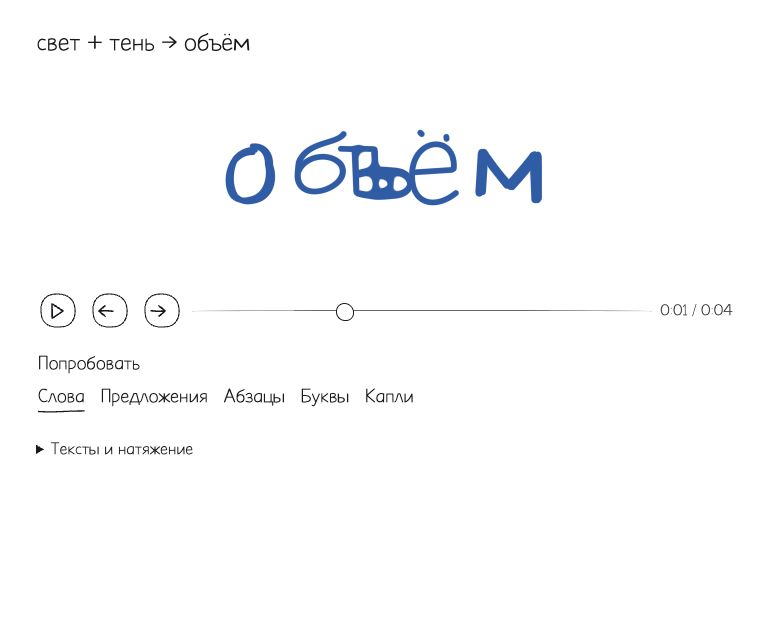
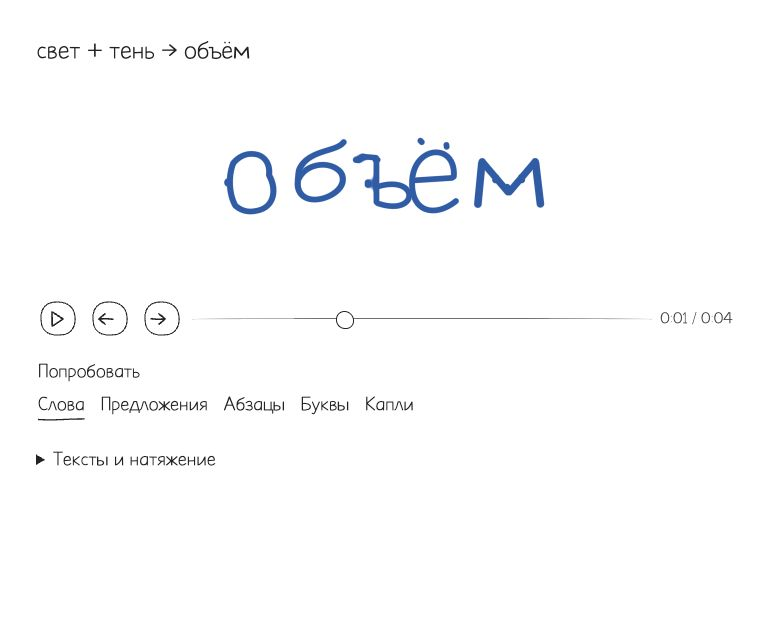
fix(ink): merge surplus strokes into a single contour

diff --git a/src/ink/fusion/transport.ts b/src/ink/fusion/transport.ts
@@ -5,6 +5,8 @@ export interface InkRoute {
   source: 0 | 1;
   target: number;
   origin: number;
+  /** Surplus ink joins this sample of the target's sole owning stroke. */
+  attachment?: number;
   text?: {
     from: readonly [number, number];
     glyph: number;
@@ -184,13 +186,16 @@ export function inkRoutes(
     } while (j0);
   }
   const pairs: [number, number][] = [];
+  const owners = new Map<number, number>();
   for (let j = 1; j <= m; j++) {
     let i = p[j]! - 1;
     if (i < 0) {
       i = 0;
       for (let k = 1; k < n; k++) if (price(k, j - 1) < price(i, j - 1)) i = k;
     }
-    pairs.push(transpose ? [i, j - 1] : [j - 1, i]);
+    const pair: [number, number] = transpose ? [i, j - 1] : [j - 1, i];
+    pairs.push(pair);
+    if (transpose || p[j]) owners.set(pair[1], pair[0]);
   }
   // When one original supplies several final strokes, divide its arc length.
   // Reusing the whole path would sprout duplicate loops before they could settle.
@@ -250,6 +255,26 @@ export function inkRoutes(
   return pairs.map(([i, j]) => {
     const b = resample(target[j]!, counts[j]!),
       a = align(b, resample(pieces.get(`${i}:${j}`)!, counts[j]!));
+    if (owners.get(j) !== i) {
+      // A second complete target would produce a displaced copy of the letter.
+      // Feed surplus ink into the nearest point of the one owning contour.
+      const c = center(a);
+      let attachment = 0;
+      for (let k = 1; k < b.length; k++)
+        if (
+          Math.hypot(b[k]![0] - c[0], b[k]![1] - c[1]) <
+          Math.hypot(b[attachment]![0] - c[0], b[attachment]![1] - c[1])
+        )
+          attachment = k;
+      return {
+        source: source[i]!.source,
+        origin: i,
+        target: j,
+        attachment,
+        from: a,
+        to: b.map(() => b[attachment]!),
+      };
+    }
     return { source: source[i]!.source, origin: i, target: j, from: a, to: b };
   });
 }

diff --git a/src/ink/fusion/motion.ts b/src/ink/fusion/motion.ts
@@ -82,8 +82,7 @@ export function inkMotion(routes: InkRoute[]) {
   const compiled = [...groups.values()].map((group) => {
     const text = group[0]!.text,
       n = group[0]!.from.length;
-    const preferred = group.filter((r) => r.text?.same);
-    const selected = preferred.length ? preferred : group;
+    const selected = group.filter((r) => r.attachment === undefined);
     const common = new Float64Array(n * 6),
       current = new Float64Array(n * 2);
     for (let i = 0; i < n; i++) {
@@ -115,7 +114,6 @@ export function inkMotion(routes: InkRoute[]) {
       n,
       text,
       word: text ? wordCarriers.get(text.word)! : undefined,
-      to: group[0]!.to,
     };
   });
   patches.push(...patchMap.values());
@@ -175,16 +173,17 @@ export function inkMotion(routes: InkRoute[]) {
           at = offset;
         for (let i = 0; i < group.n; i++) {
           const a = route.from[i]!,
-            b = group.to[i]!;
+            b = route.to[i]!,
+            commonIndex = (route.attachment ?? i) * 2;
           const px =
             dx +
             own * (x(p, a[0], a[1]) + p.x) +
-            shared * group.current[i * 2]! +
+            shared * group.current[commonIndex]! +
             s * (x(destination, b[0], b[1]) + destination.x);
           const py =
             dy +
             own * (y(p, a[0], a[1]) + p.y) +
-            shared * group.current[i * 2 + 1]! +
+            shared * group.current[commonIndex + 1]! +
             s * (y(destination, b[0], b[1]) + destination.y);
           const radius = a[2] * p.scale * (1 - s) + b[2] * destination.scale * s;
           if (i) {

diff --git a/tests/fusion.test.ts b/tests/fusion.test.ts
@@ -45,6 +45,13 @@ test('transport covers every original and final stroke without an intermediate s
       assert.equal(route.from.length, route.to.length);
       assert.ok([...route.from, ...route.to].flat().every(Number.isFinite));
     }
+    for (let target = 0; target < result.length; target++) {
+      const incoming = routes.filter((route) => route.target === target);
+      const owners = incoming.filter((route) => route.attachment === undefined);
+      assert.equal(owners.length, 1, 'A final stroke must have exactly one complete contour');
+      for (const donor of incoming.filter((route) => route.attachment !== undefined))
+        for (const point of donor.to) assert.deepEqual(point, owners[0]!.to[donor.attachment!]);
+    }
   }
 });
 

diff --git a/examples/ink-fusion/scene.js b/examples/ink-fusion/scene.js
@@ -17,7 +17,7 @@ window.galleryReady = (async () => {
   const equation = root.querySelector('.fusion-equation');
   const abort = new AbortController();
   const reduced = matchMedia('(prefers-reduced-motion: reduce)');
-  const motionRevision = 6;
+  const motionRevision = 7;
   const clock = transport({ duration: 4 });
   const view = await Physics2D.fusion(stage, {
     width: 840,
